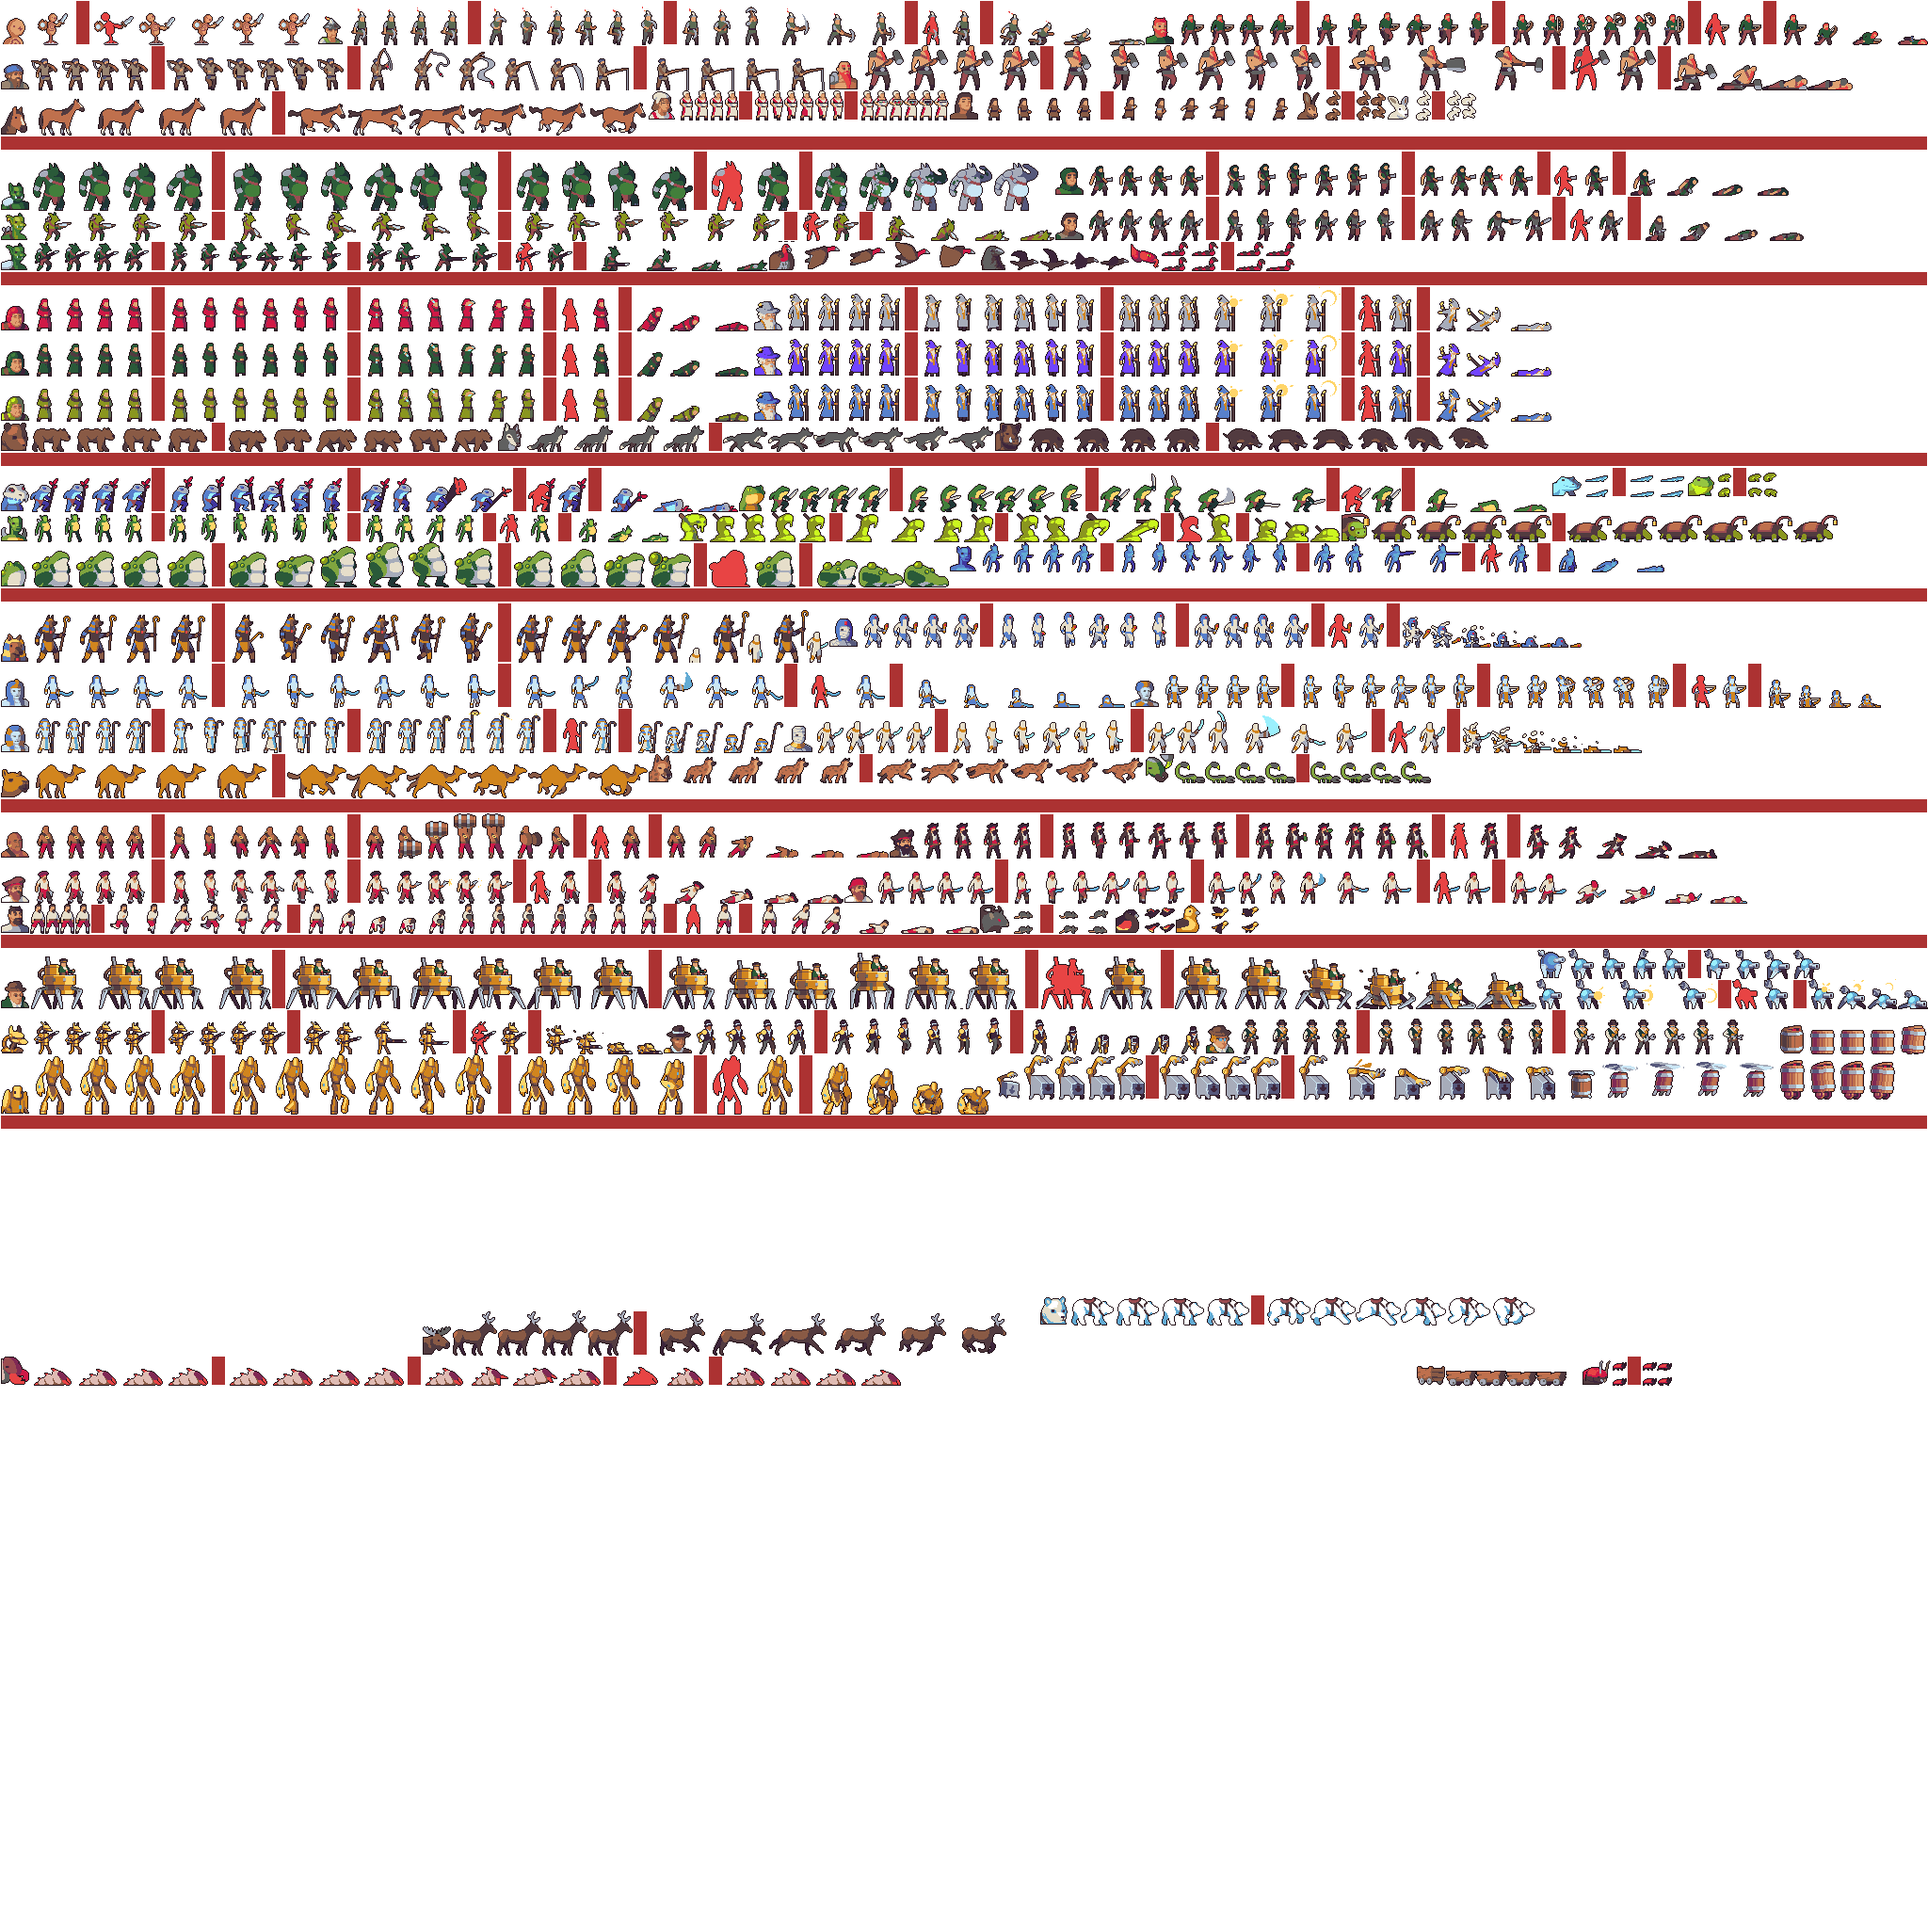
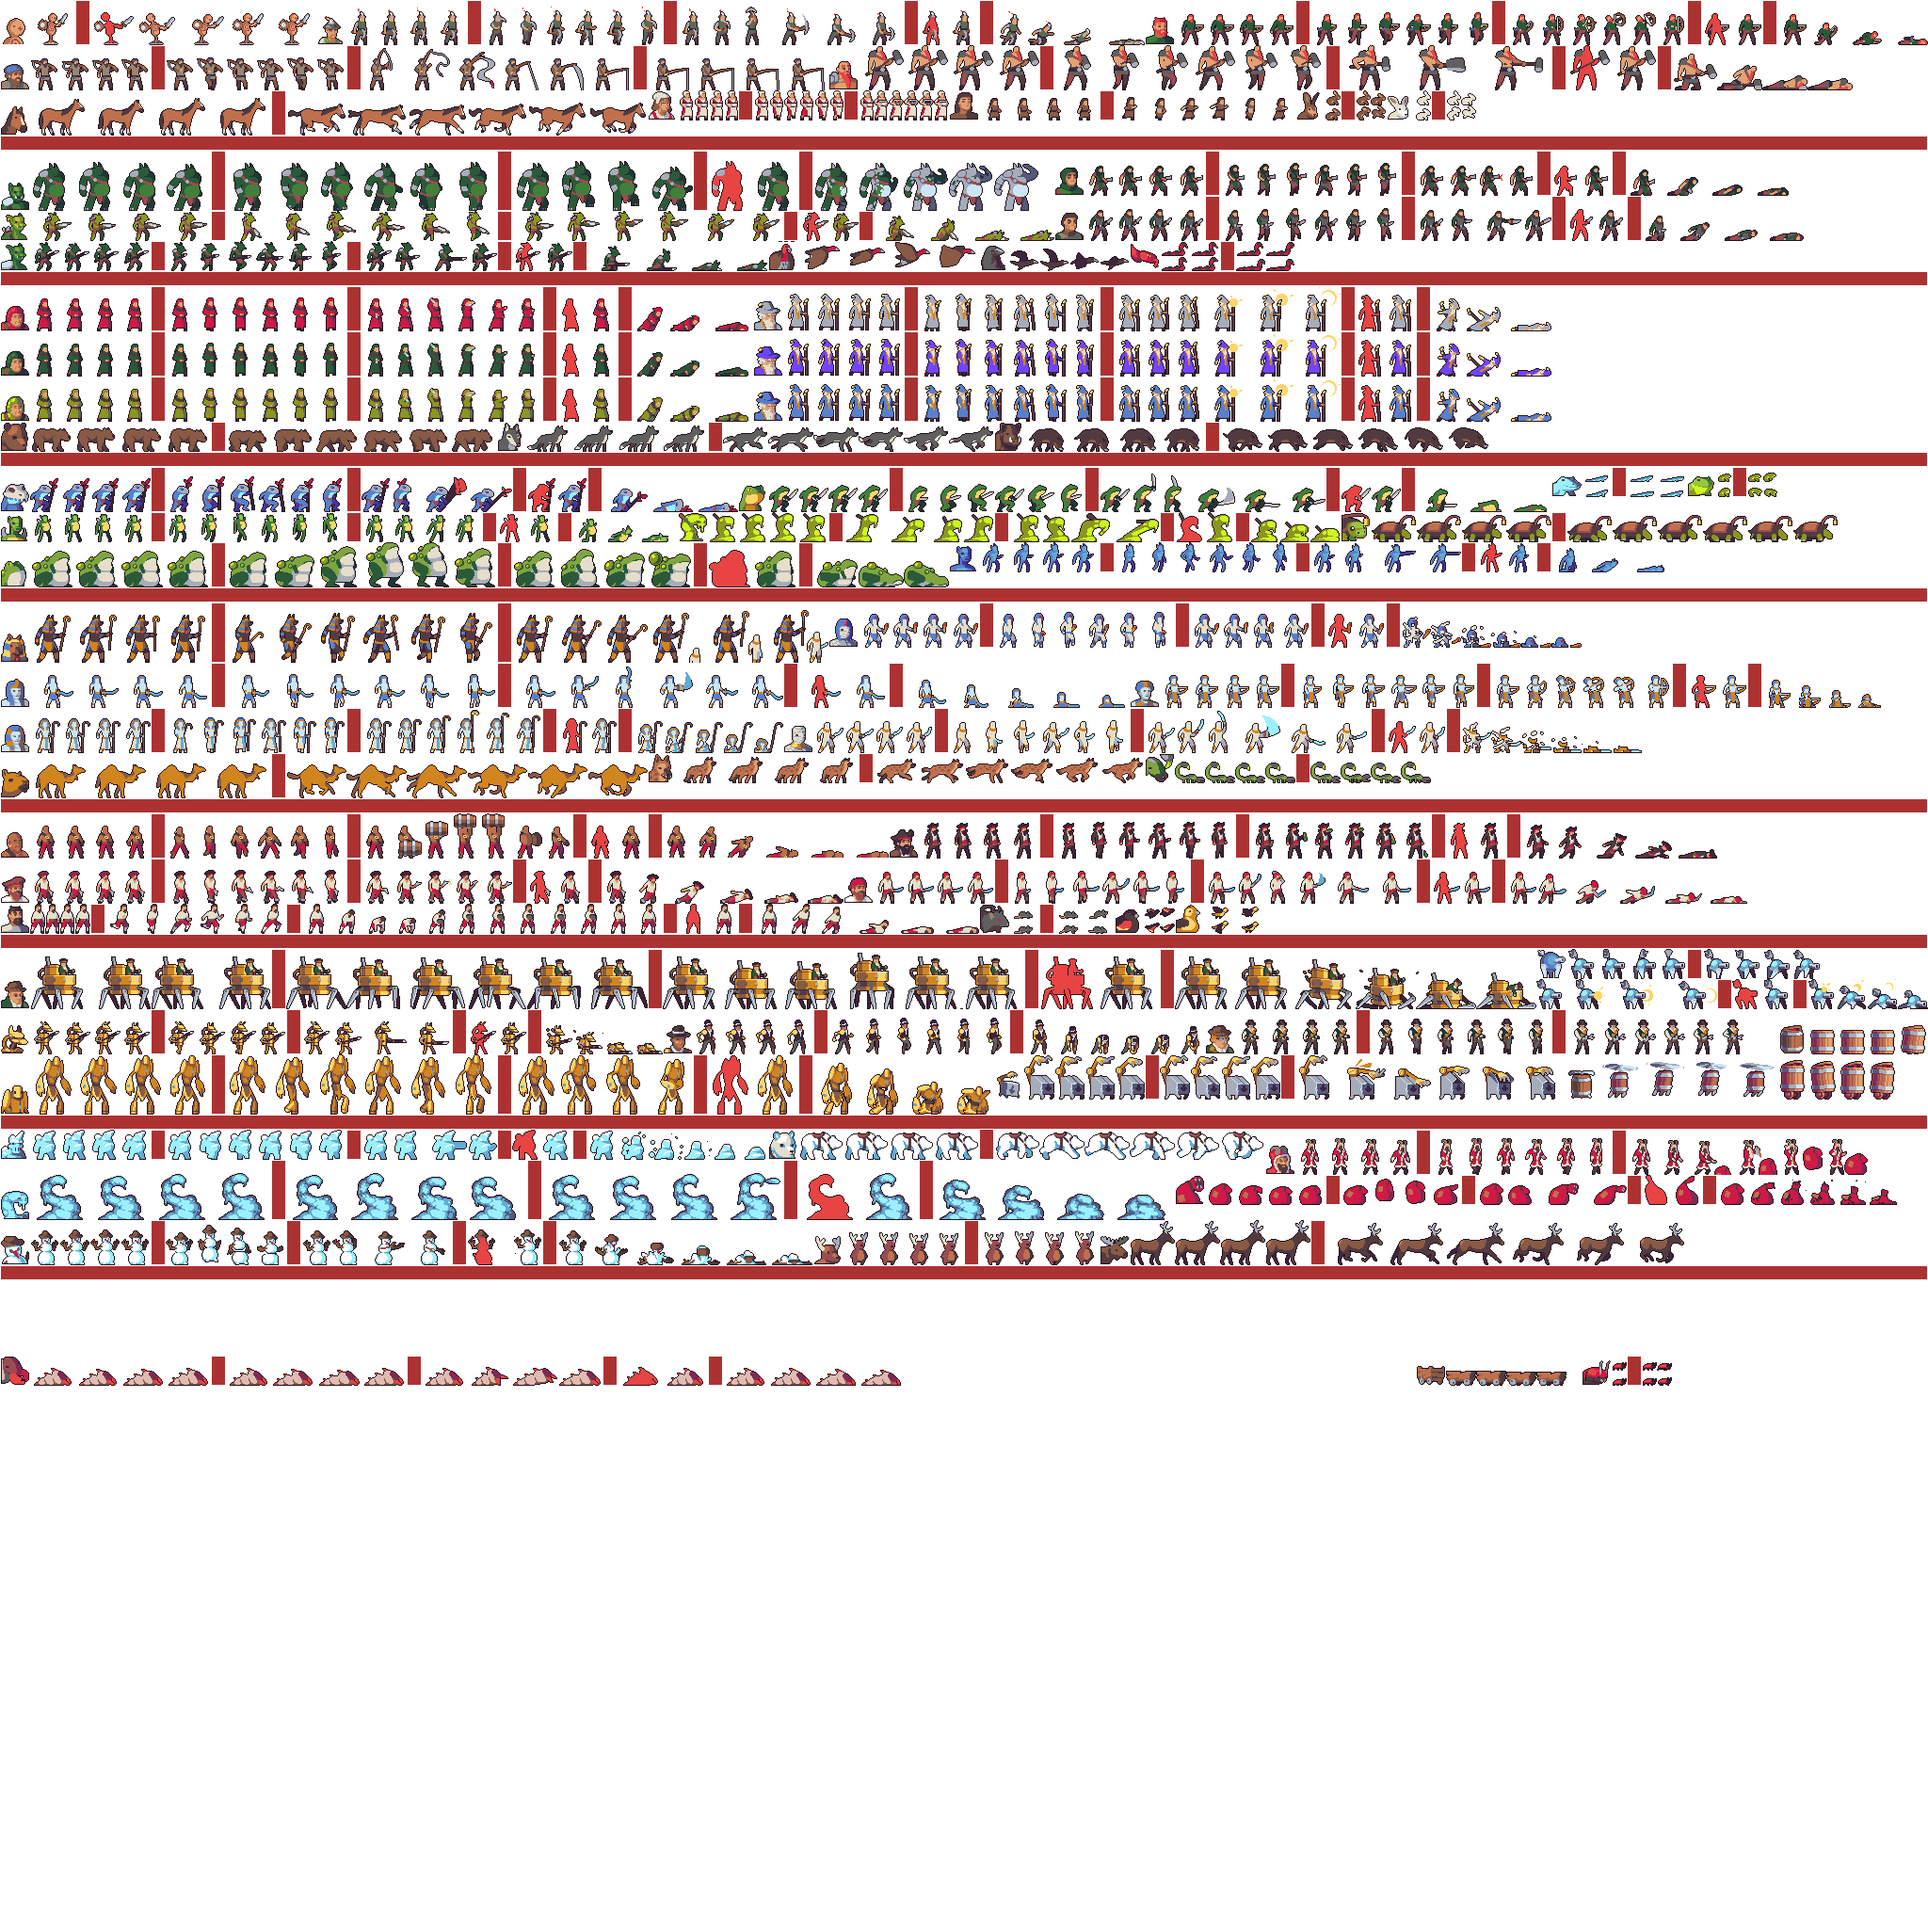
Glacier graphics; Unit roles tweaks

Changed region(s): [[0.0, 0.5625, 1.0, 0.7188]]

diff --git a/game/character.go b/game/character.go
@@ -41,9 +41,9 @@ var Characters [4]*Character
 
 func NewCharacter(behavior func(self *Unit), origin ZoneKind, stats Stats, info string) *Character {
 	var roleIcons = [RoleCount]Icon{
-		IconMelee, IconRanged, IconTank, IconMage, IconHealer, IconCollector, IconSupplier, IconTrapper}
-	var roleNames = [RoleCount]string{"Melee", "Ranged", "Tank", "Mage", "Healer", "Collector", "Supplier", "Trapper"}
-	var actNames = [RoleCount]string{"damage", "damage", "block", "damage", "heal", "carry", "buff", "debuff"}
+		IconMelee, IconRanged, IconTank, IconCollector, IconSupplier, IconGriefer}
+	var roleNames = [RoleCount]string{"Melee", "Ranged", "Tank", "Collector", "Support", "Griefer"}
+	var actNames = [RoleCount]string{"damage", "damage", "block", "carry", "buff", "grief"}
 
 	return &Character{
 		Behavior: behavior, Stats: stats, Hitbox: geometry.NewRoundedRectangle(0, 7, 18, 35, 0, 1),
@@ -55,11 +55,11 @@ func NewCharacter(behavior func(self *Unit), origin ZoneKind, stats Stats, info 
 func InitCharacters() {
 	var atlas = assets.LoadAtlas(assets.LoadImage("data/units.png"), "data/units.xml")
 
-	Characters[CharMan] = NewCharacter(BehaviorMan, ZoneField, Stats{Name: "Man", Wage: 20, Role: RoleMelee,
+	Characters[CharMan] = NewCharacter(BehaviorMan, ZoneField, Stats{Name: "Man", Wage: 20, Role: RoleFighter,
 		MaxHealth: 20, Speed: 30, ActValue: 2, ActTime: 15, ActRange: 1, RespawnTimer: 100},
 		"When close to a Woman:\n🌗🟪"+Tags[IconTimer]+"loses 0.5s rest⬜")
 
-	Characters[CharWoman] = NewCharacter(BehaviorWoman, ZoneField, Stats{Name: "Woman", Wage: 10, Role: RoleHealer,
+	Characters[CharWoman] = NewCharacter(BehaviorWoman, ZoneField, Stats{Name: "Woman", Wage: 10, Role: RoleSupport,
 		MaxHealth: 1, Speed: 20, ActValue: 1, ActTime: 18, ActRange: 1, RespawnTimer: 100},
 		"When in front of a Man:\n🌗🟨"+Tags[IconMove]+"gains 10 speed⬜")
 
@@ -67,7 +67,7 @@ func InitCharacters() {
 		MaxHealth: 1, Speed: 0, ActValue: 0, ActTime: 0, ActRange: 0, RespawnTimer: 0},
 		"Cannot die.\nAlthough, it would like to.")
 
-	Characters[CharHunter] = NewCharacter(BehaviorHunter, ZoneField, Stats{Name: "Hunter", Wage: 40, Role: RoleRanged,
+	Characters[CharHunter] = NewCharacter(BehaviorHunter, ZoneField, Stats{Name: "Hunter", Wage: 40, Role: RoleRanger,
 		MaxHealth: 14, Speed: 15, ActValue: 4, ActTime: 20, ActRange: 6, RespawnTimer: 100},
 		"When not garrison: \n🟧"+Tags[IconRange]+"gains 2 range⬜")
 	Characters[CharHunter].Sounds = CharSounds{ActionTrigger: AudioBow, HitGround: AudioProjectileGround,

diff --git a/game/unit.go b/game/unit.go
@@ -66,10 +66,9 @@ const ( // states
 	StateActionEnd        // single frame
 )
 
-const TeamAlly, TeamEnemy, TeamNeutral, TeamCount Team = 0, 1, 2, 3
+const TeamAlly, TeamEnemy, TeamCount Team = 0, 1, 2
 
-const RoleMelee, RoleRanged, RoleTank, RoleMage Role = 0, 1, 2, 3
-const RoleHealer, RoleCollector, RoleSupplier, RoleTrapper, RoleCount Role = 4, 5, 6, 7, 8
+const RoleFighter, RoleRanger, RoleTank, RoleGriefer, RoleSupport, RoleCollector, RoleCount Role = 0, 1, 2, 3, 4, 5, 6
 
 const Gravity, GroundFrictionPercent, BloodMultiplier = 256.0, 15.0, 40.0
 
@@ -110,7 +109,7 @@ func (u *Unit) MyEntrance() (entrance *Entrance) {
 }
 func (u *Unit) EnemyEntrance() (canBeActedUpon bool, entrance *Entrance) {
 	var e *Entrance
-	if u.Team != TeamNeutral && (u.IsLaner() || u.IsOffLaner()) {
+	if u.IsLaner() || u.IsOffLaner() {
 		e = Bases[1-u.Team].Entrances[u.Lane/2]
 		var actionRange = float32(u.Stats.ActRange) * TileSize
 		var melee = u.Stats.ActRange == 1 && number.IsWithin(u.X, e.Tiles[0].X, TileSize/2)
@@ -338,7 +337,7 @@ var laneMasks = map[Lane]geometry.Area{
 	LaneUpper:     geometry.NewArea(0, 0, 428, 1000),
 	LaneUpperOff:  geometry.NewArea(0, 0, 428, 1000),
 }
-var teamColors = [TeamCount]uint{TeamAlly: palette.Green, TeamEnemy: palette.Red, TeamNeutral: palette.Orange}
+var teamColors = [TeamCount]uint{TeamAlly: palette.Green, TeamEnemy: palette.Red}
 
 func (u *Unit) particlesBlood(p *motion.Particle) (alive bool) {
 	if p.Age == 0 {

diff --git a/game/user-interface.go b/game/user-interface.go
@@ -47,7 +47,7 @@ const (
 	IconHealer
 	IconCollector
 	IconSupplier
-	IconTrapper
+	IconGriefer
 	IconMove
 	IconHome
 	IconRespawn
@@ -57,7 +57,7 @@ const (
 var Tags = []string{
 	IconHealth: "~", IconCoin: "$", IconGlory: "*", IconDeath: "`", IconStory: "@", IconMove: ">", IconRange: "#",
 	IconTimer: "^", IconRespawn: "[", IconHome: "]",
-	IconMelee: "&", IconRanged: "<", IconHealer: "{", IconMage: "}", IconTank: ";", IconCollector: "\\", IconTrapper: "_",
+	IconMelee: "&", IconRanged: "<", IconHealer: "{", IconMage: "}", IconTank: ";", IconCollector: "\\", IconGriefer: "_",
 	IconSupplier: "=",
 }
 
@@ -459,7 +459,8 @@ func (h *HUD) trySummon(lastSummonIndex int) {
 			Units = append(Units, unit)
 			unit.Lane = lane
 
-			if unit.Stats.Role >= RoleHealer {
+			switch unit.Stats.Role {
+			case RoleGriefer, RoleSupport, RoleCollector:
 				unit.Lane++
 			}
 			unit.PrepareSpawn()

diff --git a/game/pickup.go b/game/pickup.go
@@ -56,7 +56,7 @@ func NewPickup(x float32, kind PickupKind, lane Lane) *Pickup {
 		data.Description = "🟩" + Tags[IconHealth] + "Doubles health⬜ of all your units."
 	case PickupCrystal:
 		data.Description = "🟥" + Tags[IconMelee] + Tags[IconRanged] + Tags[IconTank] + Tags[IconMage] +
-			Tags[IconHealer] + Tags[IconCollector] + Tags[IconSupplier] + Tags[IconTrapper] +
+			Tags[IconHealer] + Tags[IconCollector] + Tags[IconSupplier] + Tags[IconGriefer] +
 			"\nDoubles action points\n" +
 			"⬜of all your units."
 	case PickupRelic:

diff --git a/game/health-bar.go b/game/health-bar.go
@@ -130,7 +130,7 @@ func (hb *HealthBar) Update(target geometry.Shape, health, maxHealth int, mask g
 		View.DrawObject(hb.Label)
 	}
 
-	if hb.ToGlory && hb.Team != TeamNeutral {
+	if hb.ToGlory {
 		var progress = number.Limit(number.Map(hb.Timer, hb.Duration, 0, 0, 1), 0, 1)
 		var targetX, targetY = View.PointFromView(GameHUD.View, GameHUD.TeamGlory[1-hb.Team].X, GameHUD.TeamGlory[1-hb.Team].Y)
 		hb.Glory.X = number.Map(easing.CircOut(progress), 0, 1, hb.StartX, targetX)
